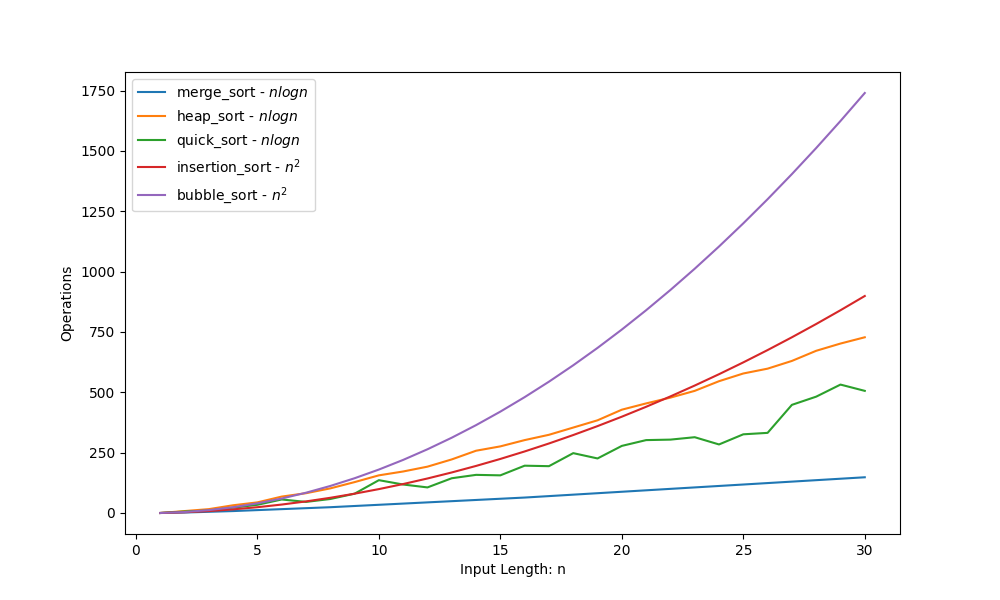
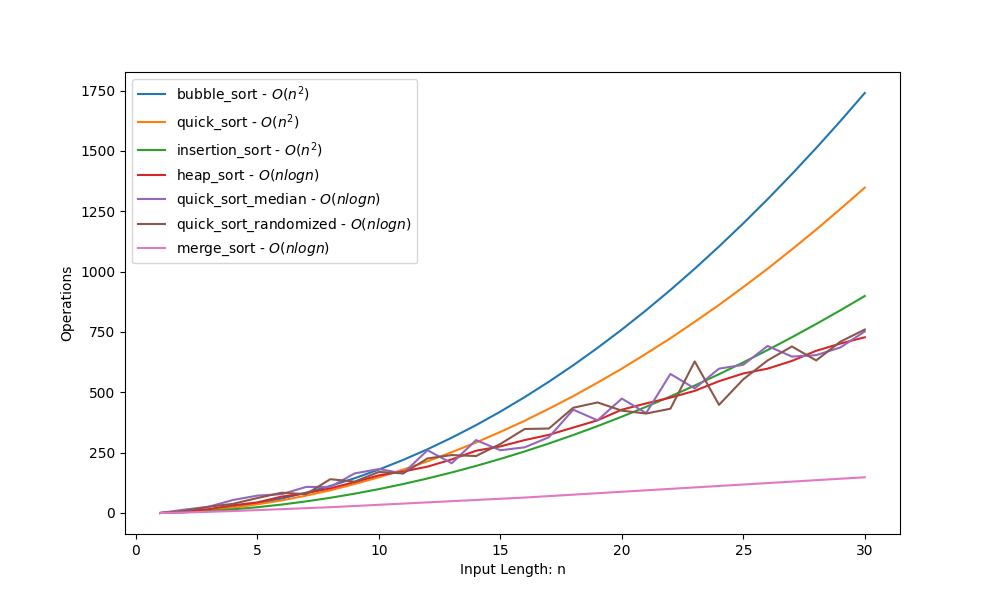
quick_sort_variants

diff --git a/Sorting/algorithms/quick_sort.py b/Sorting/algorithms/quick_sort.py
@@ -1,5 +1,5 @@
 import random
-
+import numpy as np
 
 def partition(A: list[int], p: int, r: int) -> int:
     i = p - 1
@@ -24,10 +24,44 @@ def random_partition(A: list[int], p: int, r: int) -> int:
 
     return partition(A, p, r)
 
+def median_partition(A: list[int], p: int, r: int) -> int:
+    indexes = [random.randint(p, r), random.randint(p, r), random.randint(p, r)]
+    median = int(np.median(indexes))
+
+    temp = A[r]
+    A[r] = A[median]
+    A[median] = temp
+
+    return partition(A, p, r)
+
+
 def quick_sort(A: list[int], p: int=0, r: int=float('inf')) -> list[int]:
     if r == float('inf'): r = len(A)-1
 
     if p < r:
-        q = random_partition(A, p, r)
+        q = partition(A, p, r)
         quick_sort(A, p, q-1)
         quick_sort(A, q+1, r)
+
+def quick_sort_randomized(A: list[int], p: int=0, r: int=float('inf')) -> list[int]:
+    if r == float('inf'): r = len(A)-1
+
+    if p < r:
+        q = random_partition(A, p, r)
+        quick_sort_randomized(A, p, q-1)
+        quick_sort_randomized(A, q, r)
+
+def quick_sort_median(A: list[int], p: int=0, r: int=float('inf')) -> list[int]:
+    if r == float('inf'): r = len(A)-1
+
+    if p < r:
+        q = median_partition(A, p, r)
+        quick_sort_randomized(A, p, q-1)
+        quick_sort_randomized(A, q, r)
+
+
+A = [9, 8, 7, 6, 5, 4, 78, -150, 65, 8, 1, 0, 0, -895]
+
+print(A)
+quick_sort_median(A)
+print(A)
